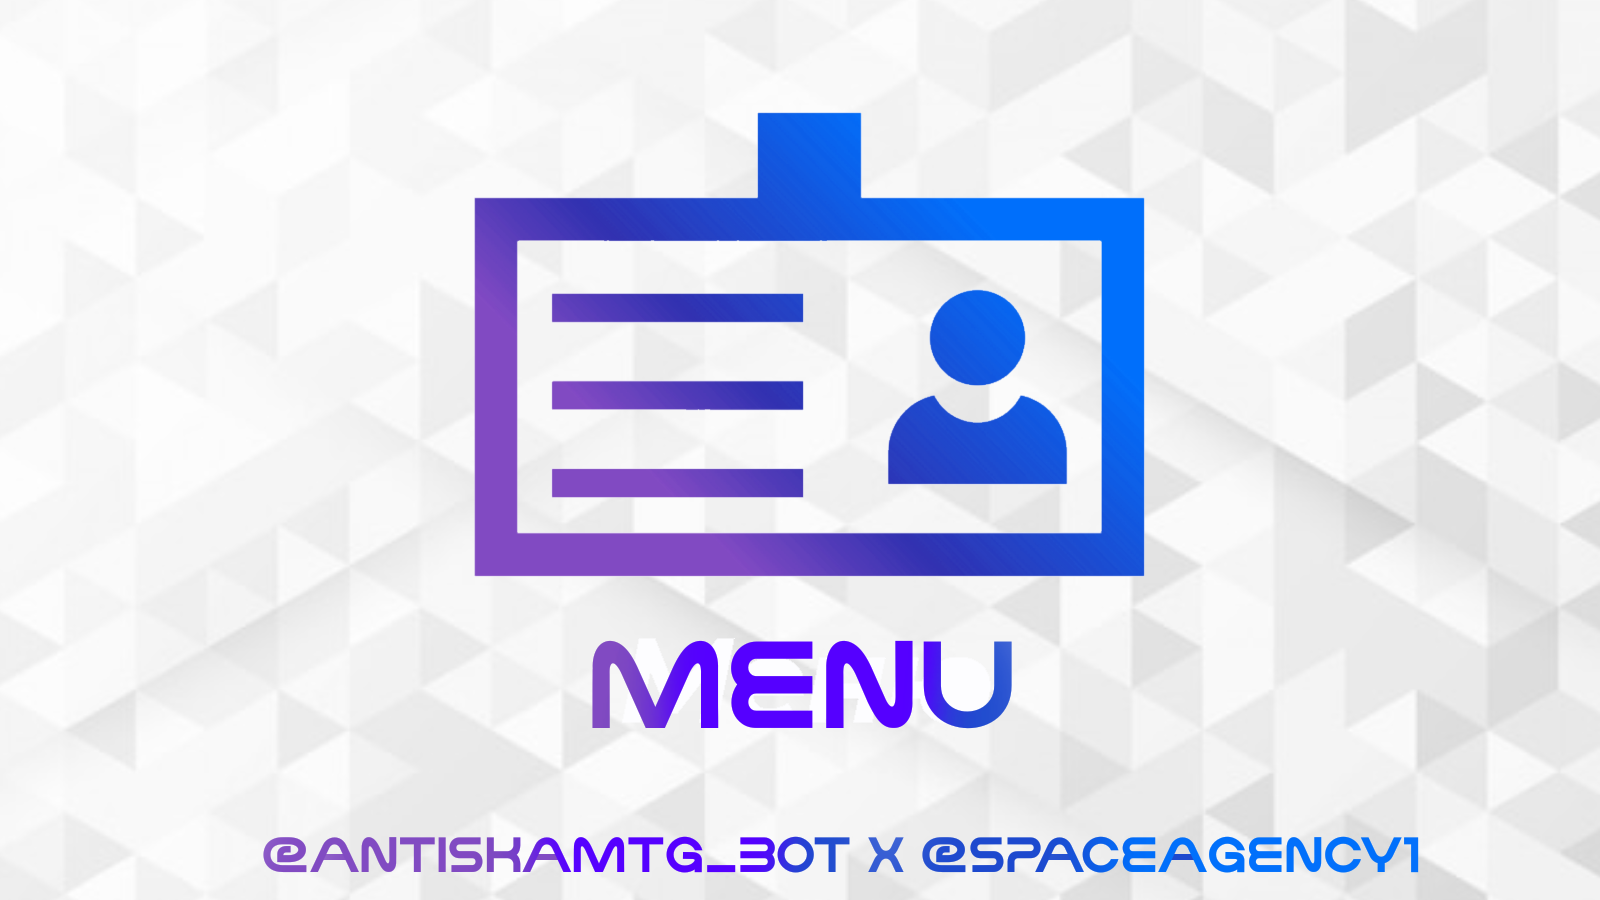
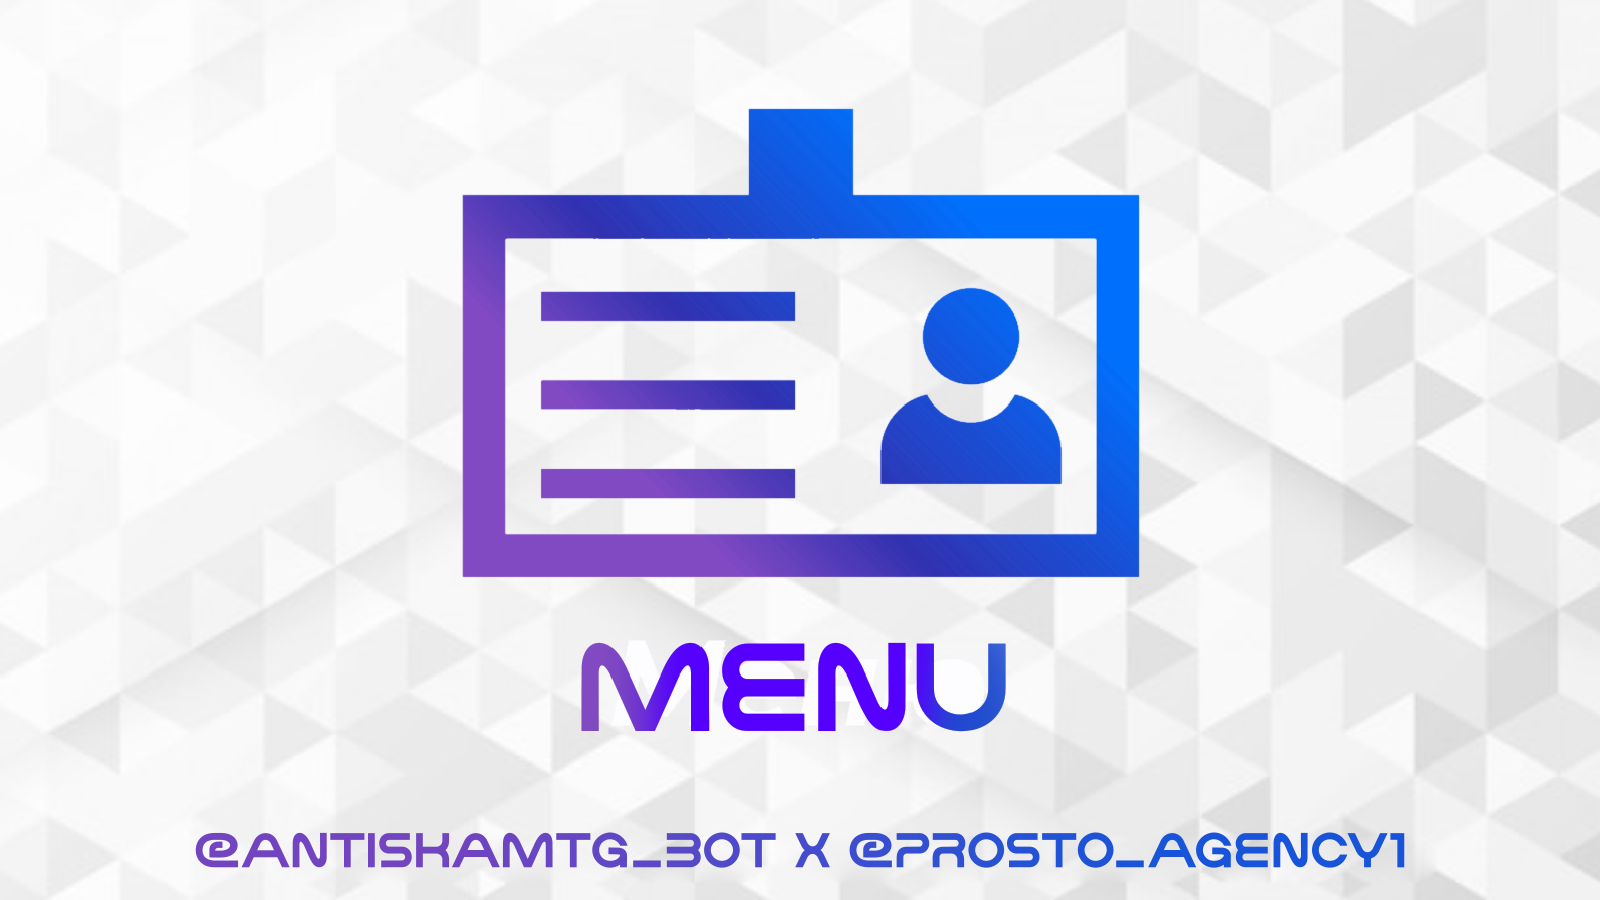
small changes; fix admin

diff --git a/src/handlers/admin.py b/src/handlers/admin.py
@@ -1,4 +1,5 @@
 from aiogram import Bot, Router, F
+from aiogram.filters import Filter, and_f
 from aiogram.types import Message, CallbackQuery, FSInputFile
 from aiogram.fsm.state import State, StatesGroup
 from aiogram.fsm.context import FSMContext
@@ -16,6 +17,7 @@ from src.entities.refs.schemas import RefScheme
 from src.entities.scammers.schemas import ScammerScheme
 from src.entities.scammers.schemas import ProofScheme
 from src.entities.refs.models import Ref
+from src.config import OWNER_IDS
 
 
 class AdminForm(StatesGroup):
@@ -41,23 +43,32 @@ router = Router()
 F: Message
 
 
+class IsAdmin(Filter):
+    def __init__(self) -> None:
+        pass 
+
+    async def __call__(self, message: Message) -> bool:
+        return message.from_user.id in OWNER_IDS
+
+
+
 @router.message(F.text == "Назад")
 async def back(message: Message, state: FSMContext):
     await message.answer("Возвращаю в главное меню...", reply_markup=get_main_menu_keyboard(message.from_user.id))
     await state.clear()
 
 
-@router.message(F.text == "Зайти в админку  📊")
+@router.message(and_f(F.text == "Зайти в админку  📊", IsAdmin()))
 async def open_admin(message: Message, bot: Bot, state: FSMContext):
     await state.clear()
-    await message.answer("Вы зашли в админку \n\n"
+    await message.answer("Вы зашли в админку \n\n"  
                          "Выберите действие:", reply_markup=get_admin_inline_keyboard())
 
 
 F: CallbackQuery
 
 
-@router.callback_query(F.data == "admin")
+@router.callback_query(and_f(F.data == "admin", IsAdmin()))
 async def open_admin(call: CallbackQuery, bot: Bot, state: FSMContext):
     await state.clear()
     await call.message.answer("Вы зашли в админку \n\n"
@@ -65,7 +76,7 @@ async def open_admin(call: CallbackQuery, bot: Bot, state: FSMContext):
     await call.answer()
 
 
-@router.callback_query(F.data == "get_count_users")
+@router.callback_query(and_f(F.data == "get_count_users", IsAdmin()))
 async def get_count_users(call: CallbackQuery, bot: Bot):
     count, count24, blocked_count, active_count = await user_repository.count_users()
     text = f"Количество пользователей - {count}\n"
@@ -82,7 +93,7 @@ async def get_count_users(call: CallbackQuery, bot: Bot):
     await call.answer()
 
 
-@router.callback_query(F.data == "get_scammer_list")
+@router.callback_query(and_f(F.data == "get_scammer_list", IsAdmin()))
 async def get_list_scammer(call: CallbackQuery, bot: Bot):
     await call.message.answer("Отправляю весь список мошенников...")
     filename = await create_list_scammer()
@@ -91,7 +102,7 @@ async def get_list_scammer(call: CallbackQuery, bot: Bot):
     await call.answer("Список отправлен")
 
 
-@router.callback_query(F.data == "add_scammer")
+@router.callback_query(and_f(F.data == "add_scammer", IsAdmin()))
 async def start_add_scammer(call: CallbackQuery, bot: Bot, state: FSMContext):
     await call.message.answer(
         "Перешлите сообщение мошенника или отправьте его кнопкой ниже 👇👇👇", reply_markup=get_send_user_keyboard()
@@ -100,7 +111,7 @@ async def start_add_scammer(call: CallbackQuery, bot: Bot, state: FSMContext):
     await call.answer()
 
 
-@router.callback_query(F.data == "delete_scammer")
+@router.callback_query(and_f(F.data == "delete_scammer", IsAdmin()))
 async def start_delete_scammer(call: CallbackQuery, bot: Bot, state: FSMContext):
     await call.message.answer(
         "Отправьте ID мошенника (или перешлите сообщение, или отправьте контакт 👇👇👇",
@@ -112,7 +123,7 @@ async def start_delete_scammer(call: CallbackQuery, bot: Bot, state: FSMContext)
 F: Message
 
 
-@router.message(AdminForm.delete_user)
+@router.message(and_f(AdminForm.delete_user, IsAdmin()))
 async def delete_user(message: Message, bot: Bot, state: FSMContext):
     try:
         scammer_id = int(message.text)
@@ -144,7 +155,7 @@ async def delete_user(message: Message, bot: Bot, state: FSMContext):
             await message.answer("Пользователя нет в базе  🚫")
 
 
-@router.message(AdminForm.get_user)
+@router.message(and_f(AdminForm.get_user, IsAdmin()))
 async def get_user(message: Message, bot: Bot, state: FSMContext):
     if message.user_shared or (message.forward_from is not None and message.forward_from.id != message.from_user.id):
         await message.answer("Профиль мошенника получен  ✅", reply_markup=get_main_menu_keyboard(message.from_user.id))
@@ -157,7 +168,7 @@ async def get_user(message: Message, bot: Bot, state: FSMContext):
                              "Попробуйте отправить пользователя кнопкной ниже 👇👇👇")
 
 
-@router.message(AdminForm.get_username)
+@router.message(and_f(AdminForm.get_username, IsAdmin()))
 async def get_username(message: Message, state: FSMContext):
     if message.text:
         data = await state.get_data()
@@ -172,7 +183,7 @@ async def get_username(message: Message, state: FSMContext):
         await message.answer("Пожалуйста, отправьте корректный username")
 
 
-@router.message(AdminForm.get_proofs)
+@router.message(and_f(AdminForm.get_proofs, IsAdmin()))
 async def get_proofs(message: Message, bot: Bot, state: FSMContext):
     data = await state.get_data()
     await state.set_state(AdminForm.apply_proofs)
@@ -186,14 +197,14 @@ async def get_proofs(message: Message, bot: Bot, state: FSMContext):
     await state.set_data(data)
 
 
-@router.callback_query(AdminForm.apply_proofs)
+@router.callback_query(and_f(AdminForm.apply_proofs, IsAdmin()))
 async def apply_proofs(call: CallbackQuery, bot: Bot, state: FSMContext):
     await call.answer()
     await call.message.answer("Отправьте причину, по которой мошенник заносится в базу")
     await state.set_state(AdminForm.get_reason)
 
 
-@router.message(AdminForm.get_reason)
+@router.message(and_f(AdminForm.get_reason, IsAdmin()))
 async def get_reason(message: Message, bot: Bot, state: FSMContext):
     data = await state.get_data()
     scammer = data["scammer"]
@@ -232,7 +243,7 @@ async def get_reason(message: Message, bot: Bot, state: FSMContext):
     await message.answer("Мошенник добавлен в базу  ✅", reply_markup=get_main_menu_keyboard(message.from_user.id))
 
 
-@router.callback_query(F.data == "add_ref")
+@router.callback_query(and_f(F.data == "add_ref", IsAdmin()))
 async def add_ref(call: CallbackQuery, bot: Bot, state: FSMContext):
     await call.answer()
     await call.message.answer(
@@ -242,7 +253,7 @@ async def add_ref(call: CallbackQuery, bot: Bot, state: FSMContext):
     await state.set_state(AddRef.here_title)
 
 
-@router.message(AddRef.here_title)
+@router.message(and_f(AddRef.here_title, IsAdmin()))
 async def add_ref_here_title(message: Message, bot: Bot, state: FSMContext):
     ref = RefScheme(title=message.text)
     await ref_service.add_ref(ref)
@@ -250,7 +261,7 @@ async def add_ref_here_title(message: Message, bot: Bot, state: FSMContext):
     await state.clear()
 
 
-@router.callback_query(F.data == "delete_ref")
+@router.callback_query(and_f(F.data == "delete_ref", IsAdmin()))
 async def delete_ref(call: CallbackQuery, bot: Bot, state: FSMContext):
     await call.answer()
     await call.message.answer(
@@ -260,7 +271,7 @@ async def delete_ref(call: CallbackQuery, bot: Bot, state: FSMContext):
     await state.set_state(DeleteRef.here_number)
 
 
-@router.message(DeleteRef.here_number)
+@router.message(and_f(DeleteRef.here_number, IsAdmin()))
 async def delete_ref_here_number(message: Message, bot: Bot, state: FSMContext):
     await ref_service.delete_ref(int(message.text) - 1)
     await message.answer("Реф. ссылка успешно удалена")

diff --git a/src/utils/scammers.py b/src/utils/scammers.py
@@ -36,19 +36,26 @@ async def create_message_about_scammer(scammer):
 
         if not is_channel:
             info_about_scammer += f"Для открытия профиля мошенника воспользуйтесь одной из ссылок (могут не работать из-за ограничений телеграма)\n"
+            info_about_scammer += f"<a href='https://t.me/@id{scammer.id}'>Вечная ссылка 1</a>\n"
+            info_about_scammer += f"<a href='tg://openmessage?user_id={scammer.id}'>Вечная ссылка 2</a>\n"
             info_about_scammer += f"tg://user?id={scammer.id}\n"
-            info_about_scammer += f"https://t.me/@id{scammer.id}\n"
-            info_about_scammer += f"tg://openmessage?user_id={scammer.id}\n"
+
+        print(info_about_scammer)
 
         if is_channel:
             scammer_message = "Этот канал - мошеннический!   ❌"
-        else:
+        else:       
             scammer_message = "Этот пользователь - мошенник!   ❌"
         if scammer.username:
             info_about_scammer += f"\n\nUsername = @{scammer.username}"
 
         if scammer.first_name:
             info_about_scammer += f"\n\nFirst Name = <code>{scammer.first_name}</code>"
+
+        # исключения!!!
+        if scammer.id == 612761675:
+            scammer_message = scammer_message.replace("мошенник!", "очернитель!", 1)
+            info_about_scammer = info_about_scammer.replace("профиля мошенника", "профиля очернителя", 1)
     else:
         scammer_message = "Данный пользователь не был найден в базе, но будьте осторожны"
 

diff --git a/src/handlers/chat.py b/src/handlers/chat.py
@@ -46,20 +46,18 @@ async def check_new_member(event: ChatMemberUpdated, bot: Bot):
 
 @router.my_chat_member(ChatMemberUpdatedFilter(member_status_changed=IS_NOT_MEMBER))
 async def bot_deleted(event: ChatMemberUpdated, bot: Bot):
-    await bot.send_message(
-        event.from_user.id,
-        f"Вы удалили меня из группы <b>{event.chat.title}</b>!"
-        f"Теперь ваш канал находится под угрозой!"
-    )
-    await chat_service.delete_chat(event.chat.id)
-
-
-@router.my_chat_member()
-async def my_chat_member_handler(update: ChatMemberUpdated):
-    if update.new_chat_member.status == 'kicked':
-        await user_service.update_user_status(update.chat.id, True)
-    if update.old_chat_member.status == "kicked":
-        await user_service.update_user_status(update.chat.id, False)
+    if event.chat.type == "private":
+        if event.new_chat_member.status == 'kicked':
+            await user_service.update_user_status(event.chat.id, True)
+        if event.old_chat_member.status == "kicked":
+            await user_service.update_user_status(event.chat.id, False)
+    else:
+        await bot.send_message(
+            event.from_user.id,
+            f"Вы удалили меня из группы <b>{event.chat.title}</b>!"
+            f"Теперь ваш канал находится под угрозой!"
+        )
+        await chat_service.delete_chat(event.chat.id)
 
 
 @router.inline_query()

diff --git a/src/messages.py b/src/messages.py
@@ -5,11 +5,9 @@ def get_start_message(message: Message) -> str:
     start_message = f"""
 <b>AntiSkamTG – <i>Не дай себя обмануть.</i></b> 
 
-<b>Проверяй</b> пользователя/канал на честность <b>с помощью нашего бота.</b>
+<b>Добавляй</b> скам-пользователя/канал в <b>нашего бота.</b>
 
-<b>Узнавай больше про ТГ:</b> <a href="https://t.me/+qyKIFJSJ0DwzZmUy">Жилка Предпринимателя</a> / <a href="https://t.me/+PXCfc4FyhMVjMzQ6">Rakhimov ВЕЩАЕТ</a>
-
-<b>Агентство</b> – <a href="https://t.me/spaceagency1">Space Agency</a>
+<b>Узнавай больше про TG:</b> <a href="https://t.me/prosto_telegram1">PROSTO TELEGRAM</a>
 
 <b>Наш чат</b> – <a href="https://t.me/+Ech10tlczSs1ZmFi">Комитет Админов</a>
 

diff --git a/src/handlers/basic.py b/src/handlers/basic.py
@@ -50,7 +50,9 @@ async def check(message: Message, bot: Bot, state: FSMContext):
     await state.clear()
 
     await message.answer(
-        "Уточните, каким способом искать мошенника в базе",
+        "Уточните, каким способом искать мошенника в базе\n\n"
+        "Рекомендуем проверять пользователей через ID\n\n" 
+        "Бот для проверки ID - @username_to_id_bot",
         reply_markup=get_check_keyboard(),
     )
 
